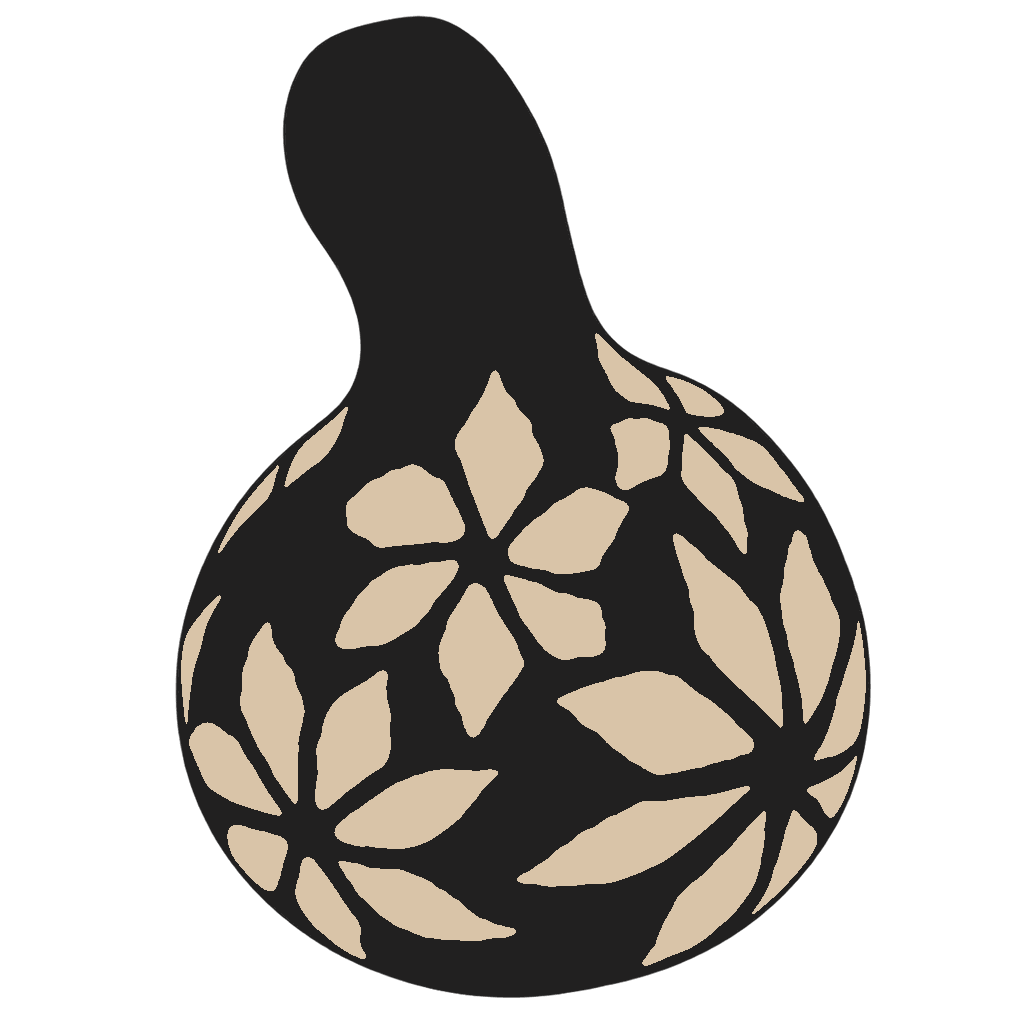
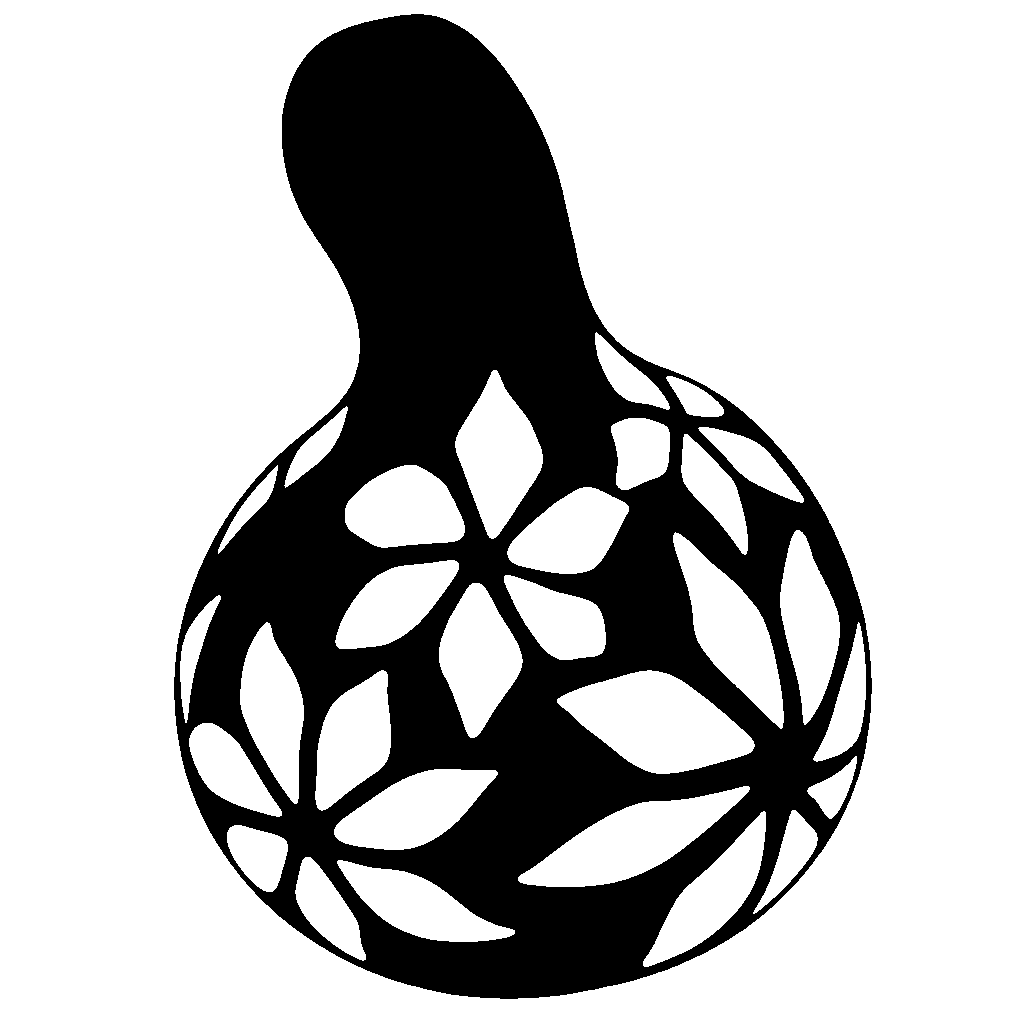
fix(brand): Replace colored artwork with monochrome assets
Refresh the gourd logo, theme favicons, app icons, and README social image. Version the ICO URL to bypass old cached artwork and remove the CSS recoloring filter.

diff --git a/src/lib/assets.test.ts b/src/lib/assets.test.ts
@@ -9,12 +9,12 @@ const HEADER = new URL("../components/Header.astro", import.meta.url);
 const LAYOUT = new URL("../layouts/BaseLayout.astro", import.meta.url);
 const MASTER_NAME = "super-hn-gourd.png";
 const SOCIAL_NAME = "super-hn-social.png";
-const VERSIONED_FAVICON_NAME = "super-hn-gourd.ico";
+const VERSIONED_FAVICON_NAME = "super-hn-monochrome.ico";
 const ICO_HEADER_SIZE = 6;
 const ICO_ENTRY_SIZE = 16;
 const ICO_LENGTH_OFFSET = 8;
 const ICO_DATA_OFFSET = 12;
-const MARK_COLORS = new Set(["33,32,32", "217,196,168"]);
+const MARK_COLORS = new Set(["0,0,0", "255,255,255"]);
 const ASSET_SPECS = {
   [MASTER_NAME]: {
     maxBytes: 60_000,
@@ -42,6 +42,21 @@ describe("brand images", () => {
       expect(asset.size).toBeLessThanOrEqual(spec.maxBytes);
       expect(metadata.width).toBe(spec.width);
       expect(metadata.height).toBe(spec.height);
+    });
+
+    test(`${name} contains only neutral colors`, async () => {
+      const { data, info } = await sharp(new URL(name, ASSET_DIR).pathname)
+        .ensureAlpha()
+        .raw()
+        .toBuffer({ resolveWithObject: true });
+      let coloredPixels = 0;
+      for (let offset = 0; offset < data.length; offset += info.channels) {
+        if (data[offset + 3] === 0) continue;
+        if (data[offset] !== data[offset + 1] || data[offset] !== data[offset + 2]) {
+          coloredPixels += 1;
+        }
+      }
+      expect(coloredPixels).toBe(0);
     });
   }
 

diff --git a/src/styles/global.css b/src/styles/global.css
@@ -159,7 +159,6 @@ samp {
   display: block;
   width: 2.125rem;
   height: 2.125rem;
-  filter: grayscale(1) contrast(2);
 }
 
 .topic-nav {

diff --git a/README.md b/README.md
@@ -1,6 +1,6 @@
 # Super HN
 
-![Super HN gourd emblem](src/assets/super-hn-social.png)
+![Super HN black-and-white gourd emblem](src/assets/super-hn-social.png)
 
 A small, server-rendered Hacker News reader built with [Astro](https://astro.build) and deployed on Cloudflare Workers at [superhn.org](https://superhn.org).
 
@@ -29,7 +29,7 @@ bun run preview
 - `src/pages/`: file-based routes. One feed route handles both the first page and pagination. Robots and the web manifest are prerendered; feeds, discussions, and profiles render on demand.
 - `src/layouts/` and `src/components/`: server-rendered HTML, shared metadata, native comment controls, and Astro's client router. Navigation fades the content over 120ms while keeping the header stable and updating the selected topic. Reduced-motion preferences disable animations; browsers without view transitions swap content immediately. No component framework.
 - `src/lib/`: route validation, response policies, and Hacker News data access. HackerWeb is the fast path; Algolia and bounded official API reconstruction provide fallbacks.
-- `src/assets/` and `src/styles/`: content-hashed brand images and shared styles. The header mark renders in monochrome. Text uses system serif fonts, with system monospace fonts for code; no font downloads.
+- `src/assets/` and `src/styles/`: monochrome logo, light/dark favicons and header icons, app icons, README/social artwork, and shared styles. Imported images use content-hashed URLs; the ICO favicon has a versioned URL. Text uses system serif fonts, with system monospace fonts for code; no font downloads.
 - `astro.config.ts`: Cloudflare adapter, edge cache rules, and intent-based prefetching. Full-document speculative prerendering is disabled because navigation uses Astro's client router.
 
 Astro's Cloudflare cache provider caches feeds for one minute and profiles for 15 minutes, with stale-while-revalidate. Discussion cache lifetimes increase with age. Empty bulk comment trees are verified against the official API before being accepted. A separate, data-center-local Cache API store retains successful discussions for up to one hour, used only when providers fail; restored pages are not cached again. Missing/deleted posts clear that fallback. Errors are uncached; upstream outages without a usable fallback return a retryable 503. Static assets use `public/_headers`; middleware applies dynamic response headers.
